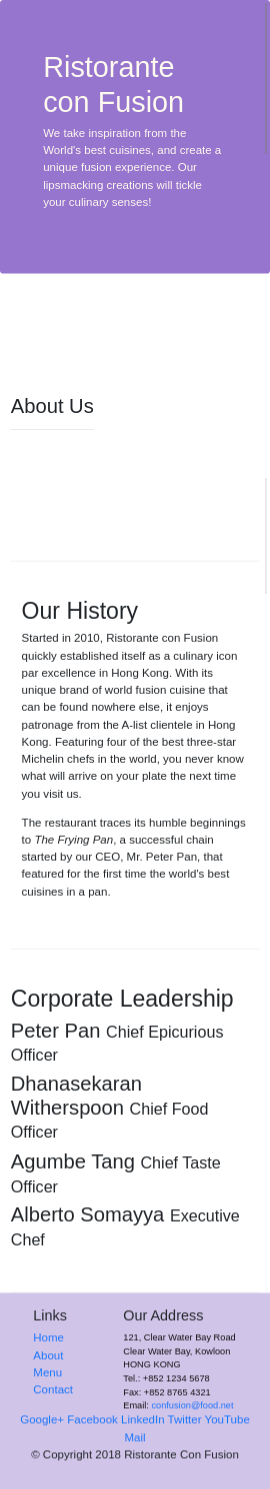
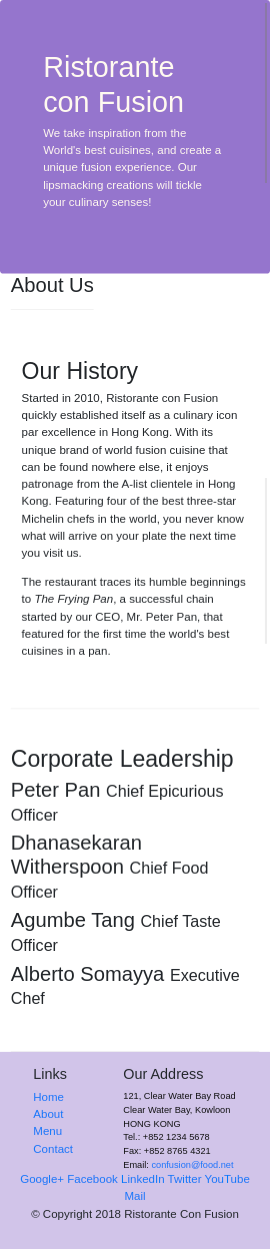
fix: conflict resolution

Changed region(s): [[0.0, 0.0312, 1.0, 0.9992], [0.8, 0.0937, 0.8296, 0.1249]]

diff --git a/aboutus.html b/aboutus.html
@@ -8,6 +8,10 @@
 <!-- Bootstrap CSS -->
 <link rel="stylesheet" href="node_modules/bootstrap/dist/css/bootstrap.min.css">
 
+<!-- Font awesome and Bootstrap Social  -->
+<link rel="stylesheet" href="node_modules/font-awesome/css/font-awesome.min.css">
+<link rel="stylesheet" href="node_modules/bootstrap-social/bootstrap-social.css">
+
 <!-- Customer CSS -->
 <link href="css/styles.css" rel="stylesheet">
 
@@ -50,11 +54,7 @@
     </header>
 
     <div class="container">
-        <ol class="col-12 breadcrumb">
-            <li class="breadcrumb-item"><a href="./index.html">Home</a></li>
-            <li class="breadcrumb-item active">About Us</li>
-        </ol>
-        <div class="row align-items-center">
+        <div class="row row-header align-items-center">
             <div class="">
                 <h3>About Us</h3>
                 <hr>

diff --git a/index.html b/index.html
@@ -8,6 +8,10 @@
 <!-- Bootstrap CSS -->
 <link rel="stylesheet" href="node_modules/bootstrap/dist/css/bootstrap.min.css">
 
+<!-- Font awesome and Bootstrap Social  -->
+<link rel="stylesheet" href="node_modules/font-awesome/css/font-awesome.min.css">
+<link rel="stylesheet" href="node_modules/bootstrap-social/bootstrap-social.css">
+
 <!-- Customer CSS -->
 <link href="css/styles.css" rel="stylesheet">
 
